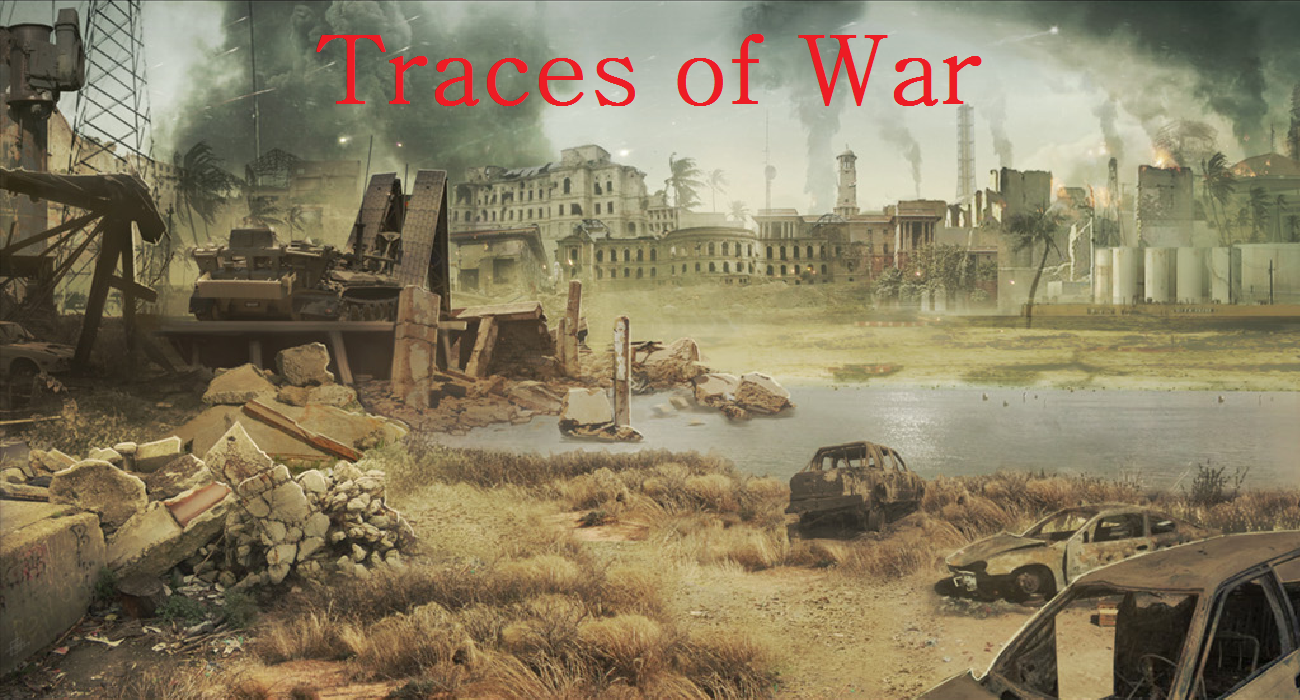
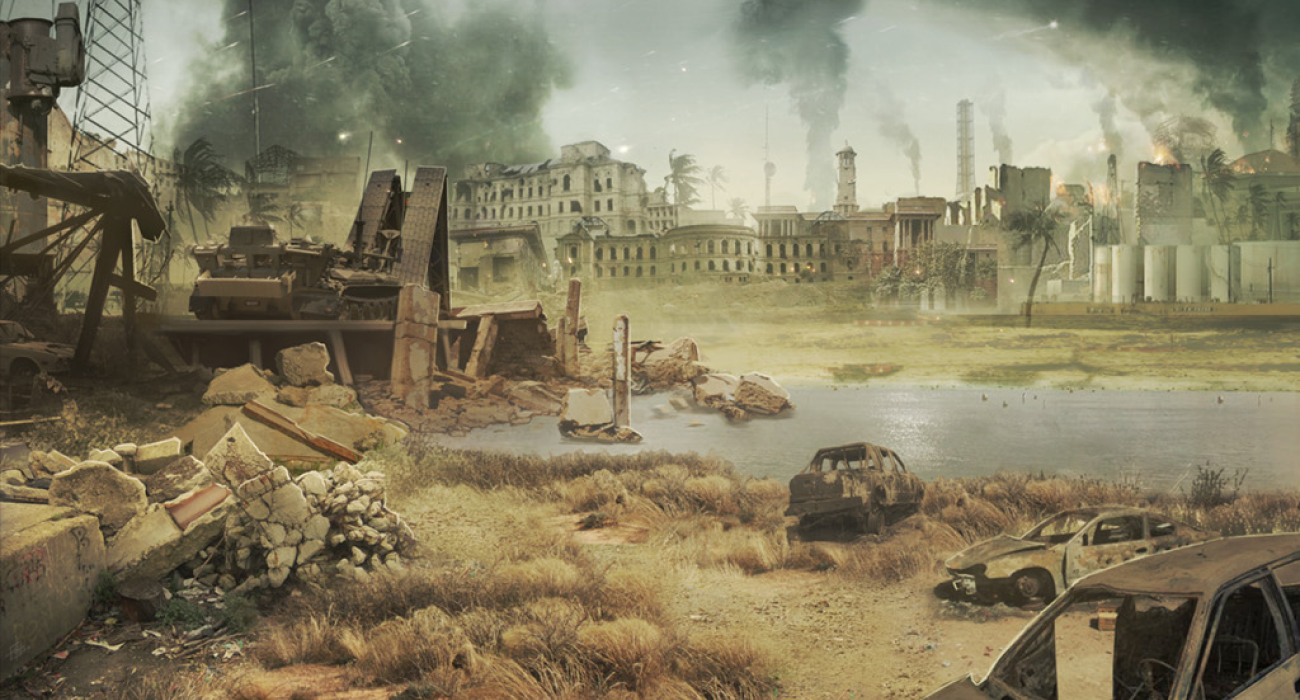
colocado título do menu com fonte personalizada

diff --git a/menu.py b/menu.py
@@ -13,6 +13,8 @@ import inventario
 def menu():
     janela = Window(1300, 700)
     janela.set_title("Traces of War")
+    titulo = Sprite("imagens/tracesofwar.png")
+    titulo.set_position(259, 63)
     #fundo = GameImage("imagens/fundo_menu.png")
     #inicio = Sprite("imagens/jogar.png")
     #inicio_hover = Sprite("imagens/jogar_h.png")
@@ -52,13 +54,14 @@ def menu():
         #sair_hover.set_position(janela.width / 2 - x, 597)
 
         fundo_tow.draw ()
+        titulo.draw()
         inicio_tow.draw()
         inicio_tow.set_position(janela.width / 2 - x, 294)
         sair_tow.set_position(janela.width / 2 - x, 496)
 
         inicio_hover_tow.set_position(janela.width / 2 - x, 294)
         sair_hover_tow.set_position(janela.width / 2 - x, 496)
-
+    
 
         if mouse.is_over_object(inicio_tow):
             inicio_hover_tow.draw()
